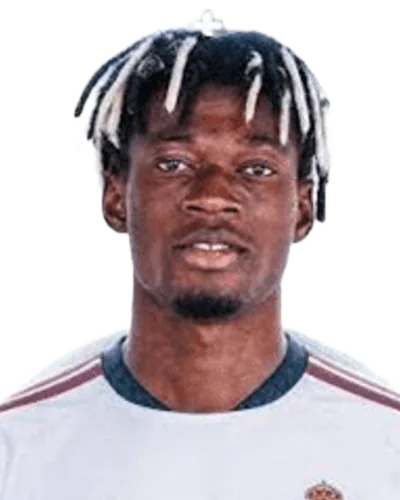
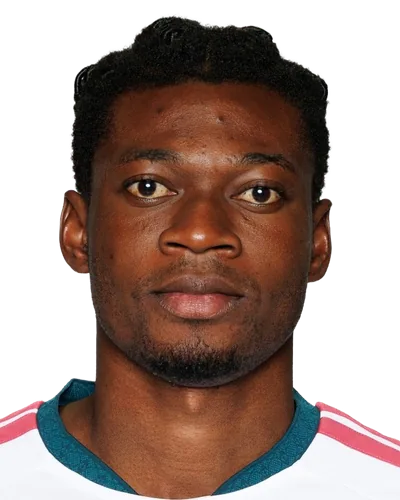
Plantilla: se van Jime y Mami, llega Sergio Martínez
Jime (David Jiménez, JUG-38) y Mami (Manuel Ángel, JUG-34) salen por
`hiddenPlayers`, que es el filtro que se aplica en cada punto de entrada
de datos y no en cada tarjeta: así desaparecen del once, de la pizarra
de ABP, del coding, de las valoraciones y del radar emocional aunque
las hojas los sigan mandando. De cada uno van las tres grafías con las
que las hojas los escriben; "david" a secas no, porque en la plantilla
hay un Cristian David.

Y `/individual`, que tiene su propia lista escrita a mano, no pasaba por
ese filtro: los cinco jugadores ya ocultos seguían saliendo sólo ahí.
Ahora la lista se filtra igual que el resto.

Sergio Martínez entra por `lib/fichajes.ts`, que es el puente mientras
la pestaña JUGADORES no le tenga fila —el alta desde la app escribe en
la hoja de sesiones, no en la maestra—. Se retira solo en cuanto alguien
escriba esa fila. **El puesto va vacío a propósito**: nadie lo ha dicho
todavía y prefiero que no salga colocado en una banda que no es la suya.

Fotos: recorte nuevo de Sergio Martínez y foto nueva de Óscar Naasei,
las dos de la sesión del club. Fondo quitado, encuadre por
`crop-player-cutouts.mjs` —coronilla al 3 % y silueta hasta el 100 % del
alto en los cuatro .webp— y subidas al bucket `performance` de Supabase,
que es de donde las sirve la app.

Claude-Session: https://claude.ai/code/session_01PYvWEFBi7HNrCREMwUXdf4

diff --git a/app/individual/page.tsx b/app/individual/page.tsx
@@ -535,6 +535,14 @@ const PLAYERS_BASE: Omit<Player, "photoFace">[] = [
     "https://assets.realmadrid.com/is/image/realmadrid/ALVARO_GINES_380x501?$Desktop$&fit=wrap&wid=288&hei=384",
 },
 
+{
+  /* Alta del 4/9/2026. El puesto está sin confirmar: ver lib/fichajes.ts. */
+  idJugador: "JUG-53",
+  name: "Sergio Martínez",
+  position: "",
+  /* Vacío a propósito: el recorte del club lo pone el `map` de abajo. */
+  photo: "",
+},
 
 ];
 
@@ -544,7 +552,11 @@ const PLAYERS_BASE: Omit<Player, "photoFace">[] = [
  * nombre es lo único que se mueve con la persona. Si alguien no tiene
  * recorte, se queda con su URL original.
  */
-const players: Player[] = PLAYERS_BASE.map((player) => ({
+const players: Player[] = PLAYERS_BASE.filter(
+  /* Esta lista está escrita a mano y no pasaba por el filtro de ocultos: los
+     que se retiran de la plantilla seguían saliendo sólo aquí. */
+  (player) => !isHiddenPlayer(player.name),
+).map((player) => ({
   ...player,
   photo: getPlayerImage(player.name, "lejos") ?? player.photo,
   photoFace:

diff --git a/lib/fichajes.ts b/lib/fichajes.ts
@@ -46,6 +46,20 @@ const FICHAS: Ficha[] = [
     posicion: "LATERAL D.",
     licencia: "RMCF Castilla",
   },
+  {
+    /*
+    | Alta del 4 de septiembre de 2026. El puesto está **sin confirmar**: la
+    | hoja todavía no le tiene fila y el cuerpo técnico no lo ha dicho, así que
+    | va vacío a propósito. Con el puesto en blanco sale en las listas y en la
+    | ficha, pero el campograma no lo coloca en ninguna banda: en cuanto se
+    | sepa, se escribe aquí (o llega la fila de la hoja, que manda).
+    */
+    id: "JUG-53",
+    nombre: "Sergio Martínez",
+    apodo: "Sergio",
+    posicion: "",
+    licencia: "RMCF Castilla",
+  },
 ];
 
 /** Los fichajes convertidos en jugadores, con sus recortes. */

diff --git a/lib/hiddenPlayers.ts b/lib/hiddenPlayers.ts
@@ -37,6 +37,19 @@ const HIDDEN_NAMES = new Set([
   // Ferran Seco
   "ferran seco",
   "seco",
+
+  /*
+  | David Jiménez, JUG-38 en la hoja. No se lista "david" a secas: en la
+  | plantilla hay un Cristian David y se ocultaría también.
+  */
+  "david jimenez",
+  "jime",
+  "jimenez",
+
+  // Manuel Ángel, JUG-34.
+  "manuel angel",
+  "mami",
+  "angel",
 ]);
 
 function normalize(value: unknown) {

diff --git a/lib/playerImages.ts b/lib/playerImages.ts
@@ -83,6 +83,7 @@ export const PLAYER_IMAGE_SLUGS = [
   "rachad-fettal",
   "ramon-salas",
   "roberto-martin",
+  "sergio-martinez",
   "sergio-martos",
   "sergio-mestre",
   "tirso-lorente",
@@ -146,6 +147,7 @@ const ID_TO_SLUG: Record<string, PlayerImageSlug> = {
   "JUG-47": "cherif-fofana",
   "JUG-48": "gabriel-valero",
   "JUG-52": "oscar-naasei",
+  "JUG-53": "sergio-martinez",
 };
 
 /**
